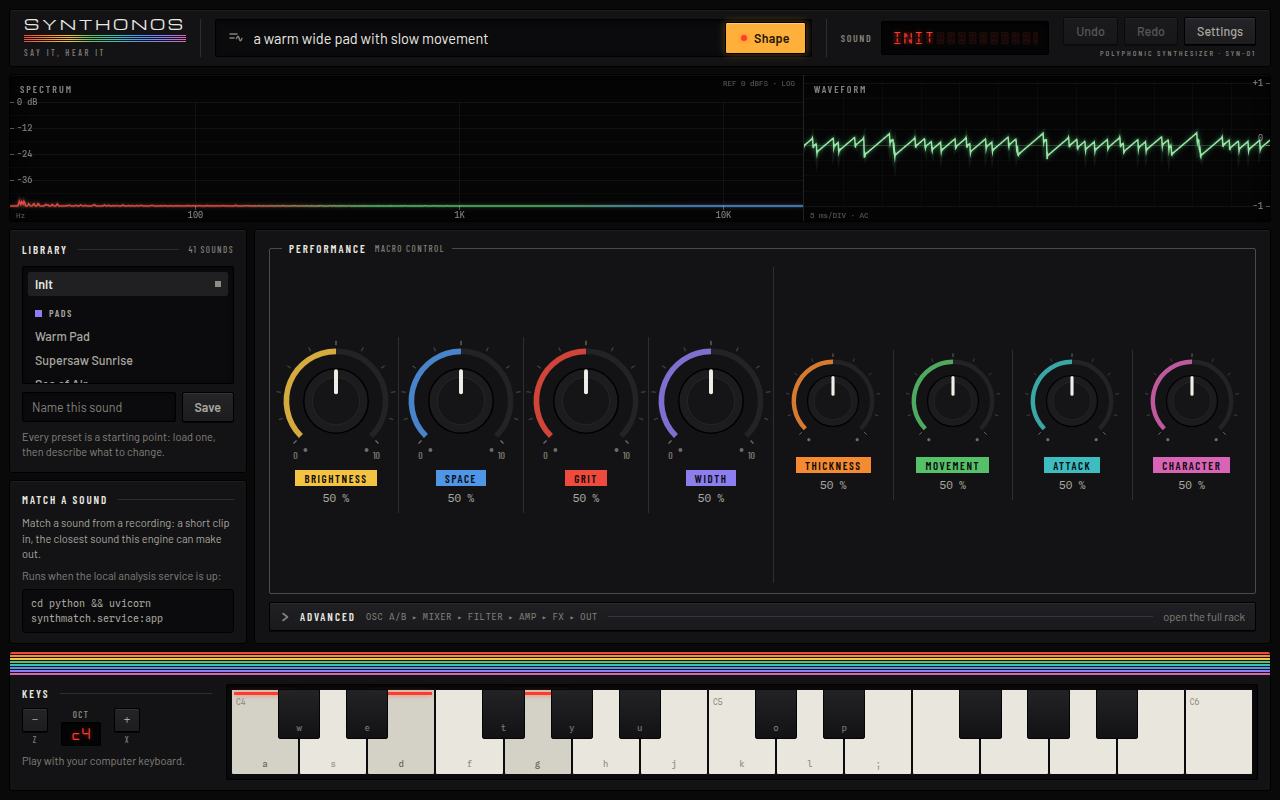
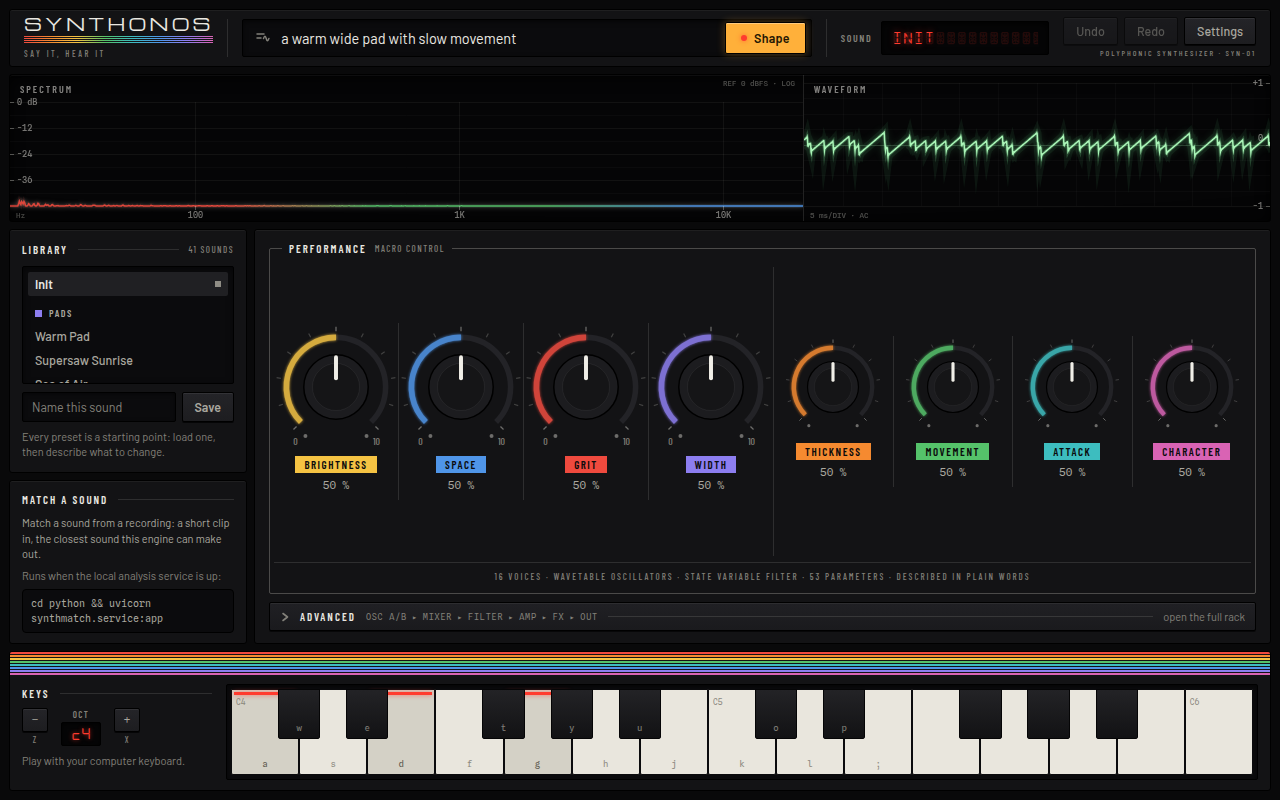
Jupiter Panel bolder pass: the machine powers on
Amplifies what the world already owns, per the owner's 'make it cool':
a power-on sequence (panels seat, the rainbow wipes in, LED displays
flicker alive, arcs come up; reduced-motion disarms it), full-strength
green phosphor bloom on the oscilloscope, brighter LED windows, the
wordmark at size, a constant low corona on the macro arcs with the
machine-glow doubled to stay the peak, glass vignette on the display,
and the flagship spec line silkscreened at the foot of the performance
frame. Also: autocomplete/spellcheck off on the describe field so
Chromium autofill can never repaint the well white.

Claude-Session: https://claude.ai/code/session_01YU3ZwAviEKxCd4h8wRfogg

diff --git a/src/ui/styles.css b/src/ui/styles.css
@@ -143,7 +143,7 @@
 
   /* Light: what the machine says */
   --led: #ff3b2e;
-  --led-glow: rgba(255, 59, 46, 0.5);
+  --led-glow: rgba(255, 59, 46, 0.65);
   --led-ghost: rgba(255, 59, 46, 0.14);
   --amber: #ffb03a;
   --amber-ink: #241703;
@@ -308,7 +308,7 @@ input {
 .brand-name {
   font-family: var(--font-brand);
   font-weight: 400;
-  font-size: 14.5px;
+  font-size: 17px;
   letter-spacing: 0.18em;
   text-transform: uppercase;
   line-height: 1;
@@ -515,7 +515,7 @@ input {
   letter-spacing: 0.08em;
   text-transform: uppercase;
   color: var(--led);
-  text-shadow: 0 0 5px var(--led-glow);
+  text-shadow: 0 0 7px var(--led-glow);
 }
 
 /* Unlit segments behind the message: the display is a real device. */
@@ -647,11 +647,25 @@ input {
 }
 
 .glass {
+  position: relative;
   display: flex;
   height: 148px;
   background: var(--screen);
   box-shadow: var(--machined), inset 0 3px 14px rgba(0, 0, 0, 0.75);
   overflow: hidden;
+}
+
+.glass::after {
+  content: "";
+  position: absolute;
+  inset: 0;
+  z-index: 1;
+  pointer-events: none;
+  background: radial-gradient(
+    130% 100% at 50% 42%,
+    transparent 55%,
+    rgba(0, 0, 0, 0.4) 100%
+  );
 }
 
 .glass-divider {
@@ -1065,6 +1079,19 @@ input {
   font-size: 11px;
 }
 
+.panel-spec {
+  flex: none;
+  padding: 7px 0 6px;
+  border-top: 1px solid var(--frame-faint);
+  font-family: var(--font-cond);
+  font-weight: 500;
+  font-size: 9px;
+  letter-spacing: 0.22em;
+  text-transform: uppercase;
+  text-align: center;
+  color: var(--text-faint);
+}
+
 /* Each macro's name is silkscreened on a block of its own ink. */
 .macro-station .knob-label {
   margin-top: 7px;
@@ -1185,11 +1212,15 @@ input {
   transition: color 0.15s ease-out;
 }
 
+.macro-station .knob-fill {
+  filter: drop-shadow(0 0 1.5px var(--knob-hue, var(--neutral-chip)));
+}
+
 /* Machine light: the arc burns its ink while the machine turns the
    knob. Law 2: light means the machine is working here. */
 .knob-glowing .knob-fill {
   opacity: 1;
-  filter: drop-shadow(0 0 3.5px var(--knob-hue, var(--neutral-chip)));
+  filter: drop-shadow(0 0 5px var(--knob-hue, var(--neutral-chip)));
 }
 
 .knob-glowing .knob-value {
@@ -1806,6 +1837,89 @@ input {
 .current-preset.has-tooltip::after {
   left: auto;
   right: 0;
+}
+
+/* ---------- Power-on. ---------- */
+
+@keyframes panel-seat {
+  from {
+    opacity: 0;
+    transform: translateY(6px);
+  }
+}
+
+.top-rail {
+  animation: panel-seat 0.45s cubic-bezier(0.16, 0.84, 0.28, 1) backwards;
+}
+
+.glass-deck {
+  animation: panel-seat 0.45s 0.07s cubic-bezier(0.16, 0.84, 0.28, 1) backwards;
+}
+
+.app-body {
+  animation: panel-seat 0.45s 0.14s cubic-bezier(0.16, 0.84, 0.28, 1) backwards;
+}
+
+.keyboard-strip {
+  animation: panel-seat 0.45s 0.21s cubic-bezier(0.16, 0.84, 0.28, 1) backwards;
+}
+
+@keyframes band-wipe {
+  from {
+    transform: scaleX(0);
+  }
+}
+
+.rainbow-band {
+  transform-origin: left center;
+  animation: band-wipe 0.7s 0.5s cubic-bezier(0.2, 0.8, 0.2, 1) backwards;
+}
+
+.brand-stripes {
+  transform-origin: left center;
+  animation: band-wipe 0.55s 0.35s cubic-bezier(0.2, 0.8, 0.2, 1) backwards;
+}
+
+@keyframes led-boot {
+  0%,
+  38% {
+    opacity: 0;
+  }
+  42% {
+    opacity: 1;
+  }
+  48% {
+    opacity: 0.2;
+  }
+  56% {
+    opacity: 1;
+  }
+  64% {
+    opacity: 0.45;
+  }
+  72%,
+  100% {
+    opacity: 1;
+  }
+}
+
+.current-preset,
+.octave-value {
+  animation: led-boot 1.15s linear backwards;
+}
+
+@keyframes arc-up {
+  0%,
+  55% {
+    opacity: 0;
+  }
+  100% {
+    opacity: 0.85;
+  }
+}
+
+.knob-fill {
+  animation: arc-up 1.05s ease-out backwards;
 }
 
 /* ---------- Reduced motion. ---------- */

diff --git a/src/ui/Oscilloscope.tsx b/src/ui/Oscilloscope.tsx
@@ -101,7 +101,7 @@ export function Oscilloscope({ source }: OscilloscopeProps) {
         ctx.stroke();
       }
 
-      // White phosphor trace: soft wide halo pass, then the crisp line.
+      // Green phosphor trace: two halo passes, then the crisp line.
       // The waveform stays neutral on purpose: time is not frequency,
       // so it earns no band color.
       const trace = (width: number, style: string, blur: number) => {
@@ -120,8 +120,9 @@ export function Oscilloscope({ source }: OscilloscopeProps) {
         ctx.stroke();
         ctx.shadowBlur = 0;
       };
-      trace(5, "rgba(120, 240, 150, 0.08)", 0);
-      trace(1.5, "rgba(160, 245, 175, 0.93)", 6);
+      trace(9, "rgba(120, 240, 150, 0.07)", 0);
+      trace(3.5, "rgba(130, 242, 158, 0.22)", 0);
+      trace(1.5, "rgba(172, 248, 186, 0.98)", 10);
 
       // Silkscreened amplitude scale on the right edge of the glass.
       ctx.font = "500 8.5px 'Spline Sans Mono', monospace";

diff --git a/src/ui/MacroPanel.tsx b/src/ui/MacroPanel.tsx
@@ -103,6 +103,11 @@ export function MacroPanel() {
           {secondary.map((def) => renderKnob(def, "medium"))}
         </div>
       </div>
+      {/* The spec line every flagship printed on its panel: all facts. */}
+      <div className="panel-spec" aria-hidden="true">
+        16 voices &middot; wavetable oscillators &middot; state variable
+        filter &middot; 53 parameters &middot; described in plain words
+      </div>
     </section>
   );
 }

diff --git a/src/ui/SpectrumAnalyzer.tsx b/src/ui/SpectrumAnalyzer.tsx
@@ -158,7 +158,7 @@ export function SpectrumAnalyzer({ source }: SpectrumAnalyzerProps) {
         }
         ctx.strokeStyle = triBandGradient(ctx, w, alpha);
         ctx.lineWidth = width;
-        ctx.shadowColor = "rgba(234, 232, 225, 0.3)";
+        ctx.shadowColor = "rgba(234, 232, 225, 0.5)";
         ctx.shadowBlur = blur;
         ctx.stroke();
         ctx.shadowBlur = 0;
